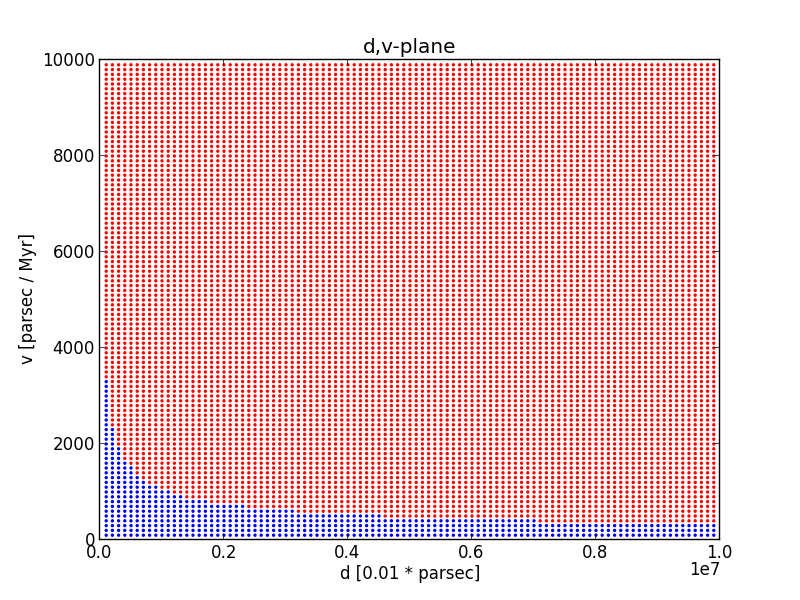
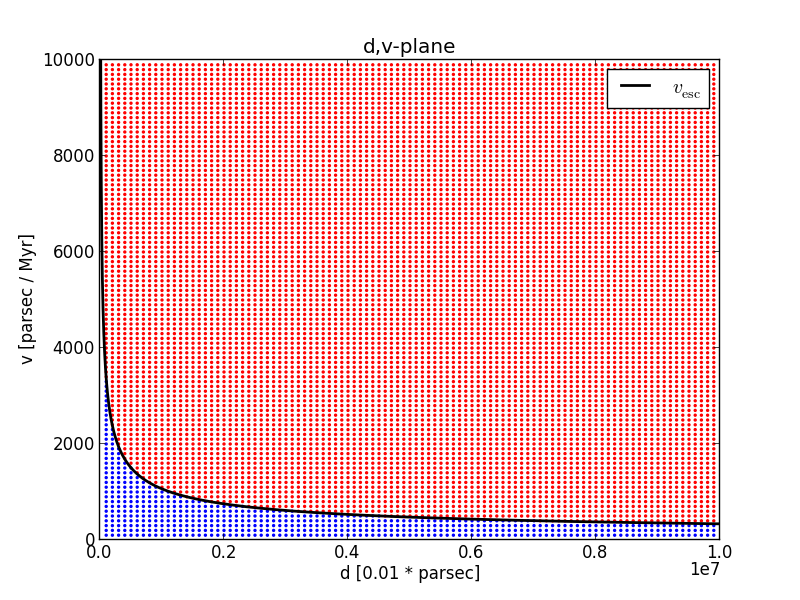
Report A&A style version 0.2

diff --git a/reports/CA_GD_TLRH_s1603221_SS_s1617451_report_aa.tex b/reports/CA_GD_TLRH_s1603221_SS_s1617451_report_aa.tex
@@ -60,19 +60,20 @@ citecolor=black}
    {To investigate the computational nature of different N-Body algorithms
    available in the AMUSE framework, to model interactions that occur 
    when galaxies collide in orde to obtain the bound particles and the total
-   bound mass in the galaxy.}
+   post-encounter bound mass in the galaxy.}
   % aims heading (mandatory)
-   {To investigate both time-complexity and relative energy error for different 
-   N-Body algorithms, simulating Ultra Compact Dwarfs galaxies in orbit around
-   a Black Hole or other Galaxies such as the Milky Way, studying the bound mass
-   of a Dwarf Galaxy.}
+   {To investigate the performance of different 
+   N-Body algorithms, to simulate an Ultra Compact Dwarfs galaxies in an orbit around
+   a Black Hole (possibly other Galaxies such as the Milky Way).}
   % methods heading (mandatory)
-   {REPLACE.}
+   {We have used a three different N-Body integrators to calculate the gravity in a galaxy:
+   a predictor corrector algorithm (Hermite), a direct approx. symplectic algorithm (Huayno),
+   and a tree based algorithm (BHTree).}
   % results heading (mandatory)
    {It is shown that the BHTree algorithm has the most favoured time complexity
    of $O(n \log n)$ as compared to $O(n^2)$ for Huayno and Hermite, the
-   relative energy error can be reduced at higher cost of calculations by decreasing
-   the time step. Having analysed different N-Body algorithm, the BHTree algorithm 
+   relative energy error will increase as the time step of the BHTree is decreased.
+   Having analysed different N-Body algorithm, the BHTree algorithm 
    is chosen to simulate a dwarf galaxy orbiting a black hole.}
   % conclusions heading (optional), leave it empty if necessary 
    {}
@@ -97,9 +98,8 @@ This paper uses the AMUSE (Astrophysical Multipurpose Software Environment) fram
 \caption{Properties of the three chosen N-Body integrators \citep{AMUSEdocumentation}}             
 \label{tab:algorithms}      
 \centering          
-\begin{tabular}{c c c c l l l }     % 7 columns 
+\begin{tabular}{c c c c l l l }
 \hline\hline       
-                      % To combine 4 columns into a single one 
 Algorithm & Approximation Scheme & Time step Scheme & Time Complexity \\ 
 \hline                    
    BHTree & Tree & Shared / Fixed & $O(n \log n)$ \\
@@ -142,7 +142,7 @@ As the relative energy error for the BHTree is in the order of $10^{-2}$ and the
   
    \begin{figure}
    \centering
-   \includegraphics[width=\hsize]{img/CA_GD_TLRH_s1603221_SS_s1617451_BHTree_runtime_log.png}
+   \includegraphics[width=\hsize]{img/CA_GD_TLRH_s1603221_SS_s1617451_BHTree_runtime_log_plus_O.png}
       \caption{Log-log plot of the wall-clock time as a function of both N and integration 
                end time for BHTree. Different colours indicate different end times $t_{\rm end}$ of the integration.
               }
@@ -218,7 +218,7 @@ The results are given in Figure~\ref{fig:Huayno_runtime} and Figure~\ref{fig:Hua
   
    \begin{figure}
    \centering
-   \includegraphics[width=\hsize]{img/CA_GD_TLRH_s1603221_SS_s1617451_Huayno_runtime_log.png}
+   \includegraphics[width=\hsize]{img/CA_GD_TLRH_s1603221_SS_s1617451_Huayno_runtime_log_plus_O.png}
       \caption{Log-log plot of the wall-clock time as a function of both N and integration 
                end time for Huayno.
               }
@@ -236,12 +236,12 @@ The results are given in Figure~\ref{fig:Huayno_runtime} and Figure~\ref{fig:Hua
    
 
 
-\section{Bound Cluster Mass}
+\section{Bound Cluster Mass} \label{sec:BoundClusterMass}
 In this section we discuss two different methods used to determine whether a star is bound or unbound by the gravitational forces of the other stars in the galaxy working on it. Moreover, we discuss the differences between both algorithms and we conclude that the built-in is better suited for our needs.
 
-On one hand, AMUSE has a built-in method \citep{1998ApJ...498..137E}
+On one hand, AMUSE has a built-in method to determine which particles are bound and unbound. This method, the HOP method \citep{1998ApJ...498..137E}, is a group-finding algorithm specifically for N-Body simulations. The algorithm works by calculating the densities at all particle positions and then following the path to the nearest particle with a higher density until the nearest particle is the particle itself. All paths of particles created this way belong to the same group if they have a shared end particle. We think the particles that are bound are all in the same group. All other particles, then, are unbound. This, however, is not clear from initial publication about the HOP algorithm.
 
-On the other hand, we have written our own routine to calculate the bound mass. A vital assumption is that when the kinetic energy $E_k$ of a star is greater than the potential energy $E_pot$, the star is unbound. Conversely, the star is unbound.
+On the other hand, we have written our own routine to calculate the bound mass. A vital assumption is that when the kinetic energy $E_{\rm kin}$ of a star is greater than the potential energy $E_{\rm pot}$, the star is unbound. Conversely, the star is bound. We have ran simulations with both algorithms, but we did not really trust the results obtained using this method. An issue arises, for instance, when simulating the galaxy in a circular orbit around a Black Hole as described in Section~\ref{sec:orbitBH_MW_Mass}. In those simulations, for every cluster size the method still returns that the galaxy is fully bound, even though our plots indicate otherwise (i.e. we can see that a significant fraction of the particles `runs away') and the HOP method yields a fully unbound galaxy. We therefore decided to use the HOP algorithm, which is available in AMUSE.
   
 \section{Galaxy in Orbit around Black Hole} \label{sec:orbitBH_MW_Mass}
 Here we adopt N = 1024 and we use the BHTree algorithm because it has the best time complexity. We do not adjust the default time step, as discussed in Section~\ref{sec:BHTree}. Our analysis consists of the following four parts. 
@@ -250,18 +250,72 @@ Firstly, we define a function to calculate the total bound mass of the cluster. 
 
 Secondly, we add a black hole of mass $M = 1.26 \cdot 10^{12}$ M\Sun. Figure~\ref{fig:dvplane} shows the impact parameter $d$ versus the velocity of the cluster when it is closest to the black hole. For this we have assumed the cluster to be a point mass, since we are only interested in the behaviour of the center of mass of the cluster. We consider the cluster (point mass) bound if its velocity is smaller than the escape velocity $v_{\rm esc}$ given by \begin{eqnarray} v_{\rm esc} &= \sqrt{\frac{2 G M}{d}} \label{eq:vesc} \end{eqnarray} where $G$ is the gravitational constant (in SI), $M$ is the mass of the Black Hole and $d$ is the impact parameter.
 
-Moreover, we adopt a circular orbit around the black hole at a distance $R$ = REPLACE. We investigate the values of the cluster size $r$ over the distance to the Black Hole, $r/R$ to see when the cluster is bound or unbound. 
-
-Finally, we simulate around the bound-unbound border in the $d$,$v$-plane to obtain the mass of the post-encounter cluster and, using the Kepler package \citep{REPLACE} to calculate the orbital parameters.
    \begin{figure}
    \centering
    \includegraphics[width=\hsize]{img/dv_plot.png}
       \caption{Plot of the $d$,$v$-plane indicating when the cluster (simulated as a point mass) becomes bound or unbound.
-      		   Red dots indicate an unbound situation, while blue dots indicate a bound situation.
+      		   Red dots indicate an unbound situation, while blue dots indicate a bound situation. The black line indicates the cut off point given by
+		   the escape velocity.
               }
          \label{fig:dvplane}
    \end{figure}
 
+
+Moreover, we adopt a circular orbit around the black hole at a distance $R$ = 6, 12 and 18 kpc. We investigate the values of the cluster size $r$ over the distance to the Black Hole, $r/R$ to see when the cluster is bound or unbound. We simulate for $r \in [10 - 100]$ pc and added $r \in [110 - 150]$ pc for $R = 18$ kpc. The result is shown in Figure~\ref{fig:bound_mass}. Note that we used the HOP algorithm to calculate the bound mass fraction, as described in Section~\ref{sec:BoundClusterMass}. For this we first deleted the Black Hole particle out of the particle list.
+
+Because we noticed a steep cutoff we have increased the spatial resolution for $R$ = 12 kpc between 60 pc and 80 pc, see Figure~\ref{fig:bound_mass_extra_res}. The function is not smooth but appears to contain a significant amount of noise. The most interesting behaviour of this curve is that, for all three values of $R$, the value of $r/R$ has a specific cutoff of $\pm $ 0.05 for which the cluster becomes unbound. It is around this point we are interested in expanding the parameter space to simulate.
+
+   \begin{figure}
+   \centering
+   \includegraphics[width=\hsize]{img/bound_mass_at_all.png}
+      \caption{Plot of the bound mass fraction as a function of the cluster radius $r$ for galaxy size $R$ = 6, 12 and 18 kpc.
+      		   Note that $r/R$ has a specific value of $\pm$ 0.005 for which we notice a sudden drop to zero of the bound fraction of cluster mass.
+		   This behaviour is visible for all three values of $R$.
+              }
+         \label{fig:bound_mass}
+   \end{figure}
+   
+  \begin{figure}
+   \centering
+   \includegraphics[width=\hsize]{img/bound_mass_at_12000_pc.png}
+      \caption{Plot of the bound mass fraction as a function of the cluster radius $r$ for galaxy size $R$ =  12 kpc.
+      		   Note that $r/R$ has a specific value of $\pm$ 0.005 for which we notice a sudden drop to zero of the bound fraction of cluster mass.
+		   We increased the spatial resolution between 60 and 80 because we noticed a steep cutoff. The function is not smooth but appears to 
+		   contain a significant amount of noise around the stable/unstable border. 
+              }
+         \label{fig:bound_mass_extra_res}
+   \end{figure}
+
+Finally, we simulate around the bound-unbound border in the $d$,$v$-plane to obtain the mass of the post-encounter cluster and, using the Kepler package \citep{REPLACE} to calculate the orbital parameters. Table~\ref{tab:parameterspace} shows the parameter space around the bound/unbound curve used in the simulations.
+
+
+   \begin{table}
+      \caption[]{Parameters and results of a dozen simulations performed around the bound/unbound border.}
+         \label{tab:parameterspace}
+         \begin{tabular}{llll}
+            \hline
+            \noalign{\smallskip}
+            $r$ (pc) & $R$ (kpc) & $v / v_{\rm esc}$ & Bound mass fraction (post-encounter) \\ 
+            \noalign{\smallskip}
+            \hline
+            \noalign{\smallskip}   
+            15 & 3 & 0.8 & 0.735\\                 
+            15 & 3 & 1.0 & 0.956 \\
+            15 & 3 & 1.2 & 0.970 \\                 
+            30 & 6 & 0.8 & 0.749 \\
+            30 & 6 & 1.0 & 0.922 \\                 
+            30 & 6 & 1.2 & 0.955 \\                 
+            60 & 12 & 0.8 & 0.745 \\
+            60 & 12 & 1.0 & 0.929 \\                 
+            60 & 12 & 1.2 & 0.965 \\
+            90 & 18 & 0.8 0.767 \\
+            90 & 18 & 1.0 0.949 \\                 
+            90 & 18 & 1.2 0.978 \\
+            \noalign{\smallskip}
+            \hline
+         \end{tabular}
+   \end{table}
+         
 \section{Conclusions}
 
    \begin{enumerate}
